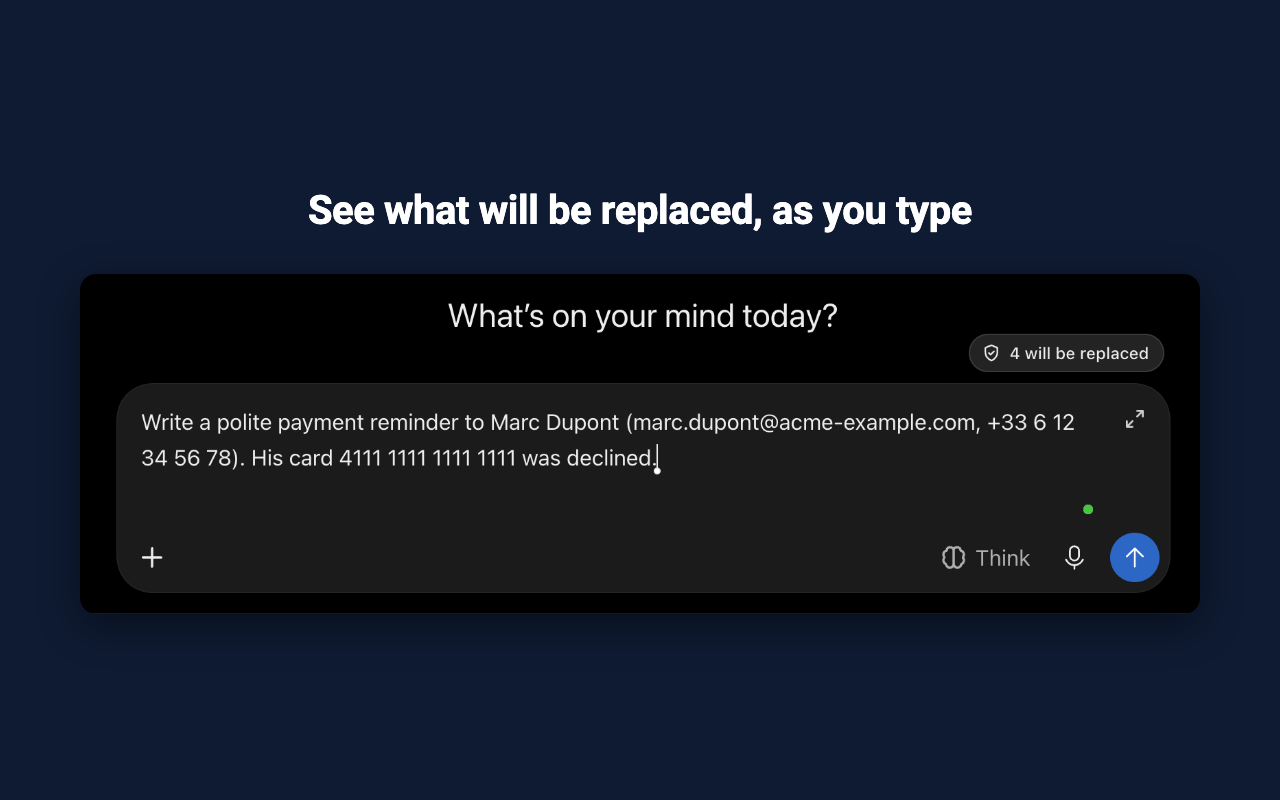
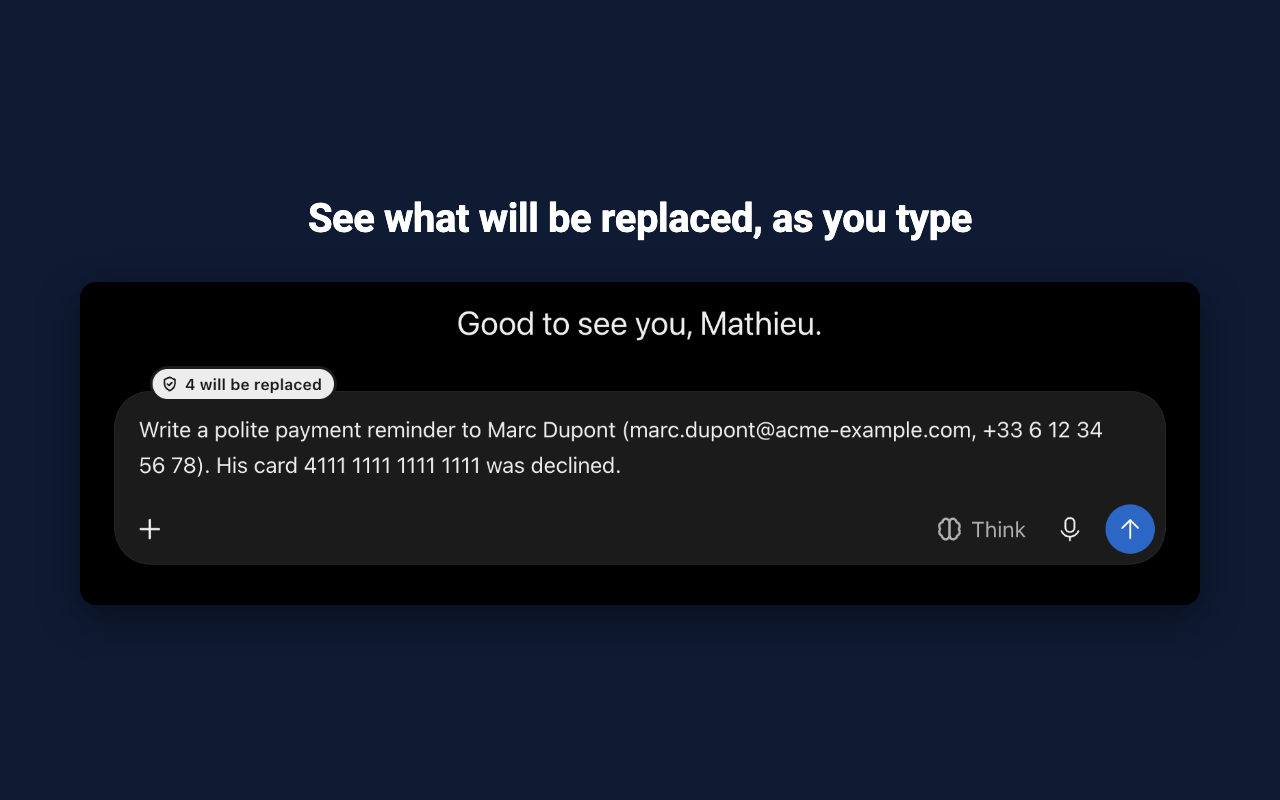
chore(store): regenerate 1280x800 Chrome screenshots from current captures

diff --git a/scripts/store-compose.ts b/scripts/store-compose.ts
@@ -8,9 +8,9 @@ import { readFileSync, mkdirSync } from 'node:fs';
 
 interface Shot { file: string; out: string; caption: string; box: [number, number]; top?: boolean }
 const SHOTS: Shot[] = [
-  { file: 'composer-with-pii-detection.png', out: '1-live-chip', caption: 'See what will be replaced, as you type', box: [1120, 340] },
-  { file: 'composer-with-pii-review.png', out: '2-review', caption: 'Review before sending, untick anything', box: [640, 580] },
-  { file: 'popup.png', out: '3-popup', caption: 'Protection per site, one click', box: [470, 585] },
+  { file: 'composer-with-pii-detection.png', out: '1-live-chip', caption: 'See what will be replaced, as you type', box: [1120, 323] },
+  { file: 'composer-with-pii-review.png', out: '2-review', caption: 'Review before sending, untick anything', box: [643, 580] },
+  { file: 'popup.png', out: '3-popup', caption: 'Protection per site, one click', box: [446, 585] },
   { file: 'settings.png', out: '4-settings', caption: 'Choose a mode, add better name detection', box: [1000, 540], top: true },
 ];
 
